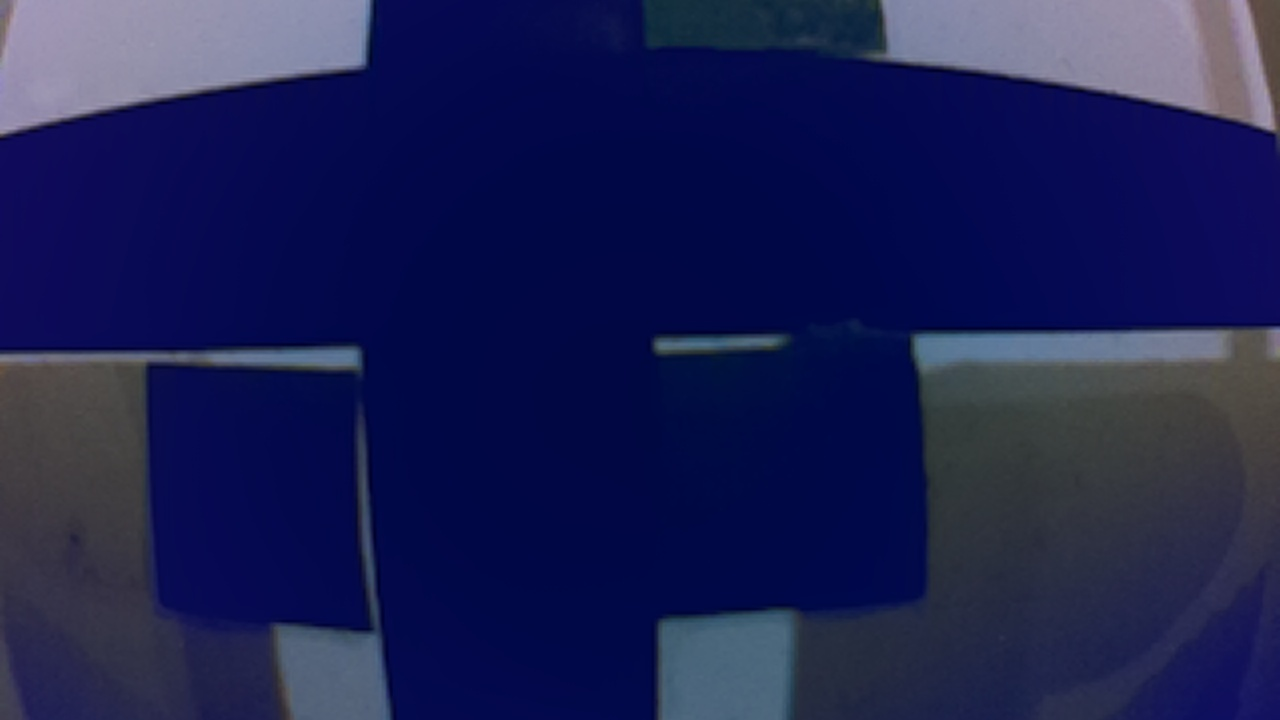
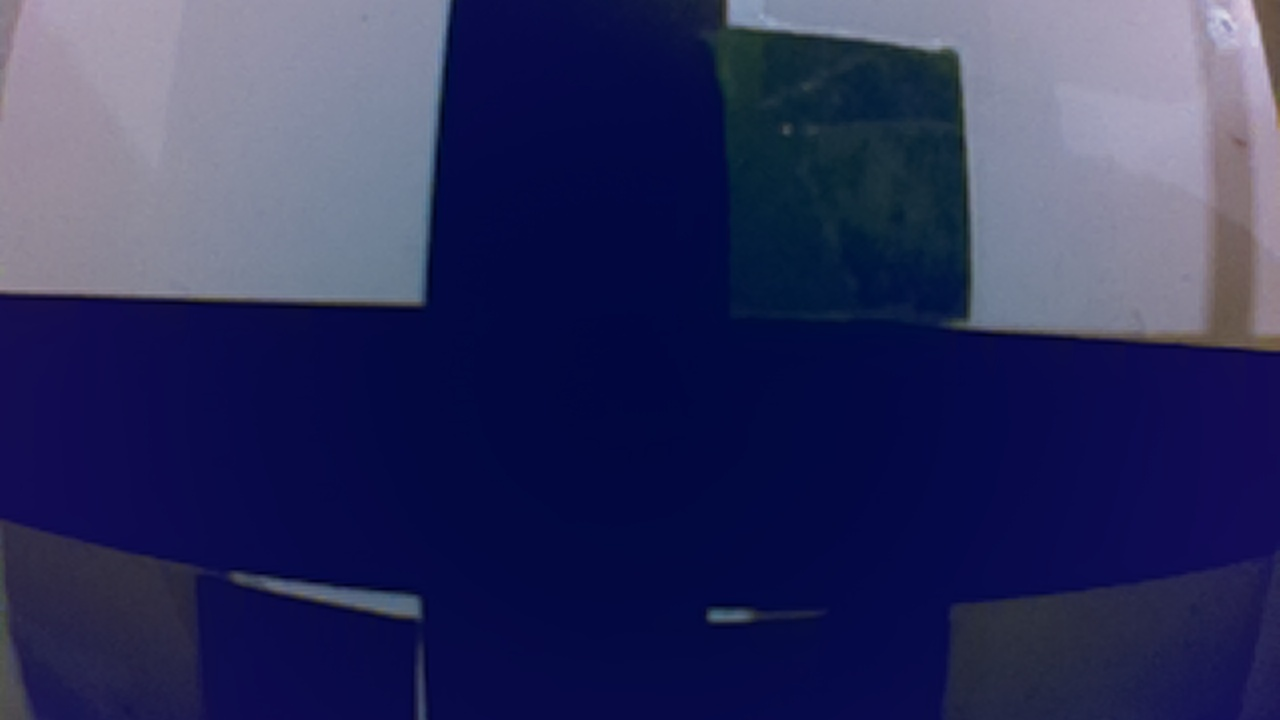
Francisco: Added line color processing/calculation

diff --git a/In Progress/Line_Cam.py b/In Progress/Line_Cam.py
@@ -14,12 +14,38 @@ print("Line Camera: \t \t OK")
 
 
 # Color Configs
+black_min = np.array(config.black_min)
+black_max = np.array(config.black_max)
 green_min = np.array(config.green_min)
 green_max = np.array(config.green_max)
 red_min_1 = np.array(config.red_min_1)
 red_max_1 = np.array(config.red_max_1)
 red_min_2 = np.array(config.red_min_2)
 red_max_2 = np.array(config.red_max_2)
+
+
+def get_line_center(binary_image):
+    height, width = binary_image.shape
+    roi = binary_image[int(height * 0.7):, :]  # Focus on the lower part of the image
+    contours, _ = cv2.findContours(roi, cv2.RETR_EXTERNAL, cv2.CHAIN_APPROX_SIMPLE)
+
+    if contours:
+        largest_contour = max(contours, key=cv2.contourArea)
+        M = cv2.moments(largest_contour)
+        if M["m00"] != 0:
+            cx = int(M["m10"] / M["m00"])
+            return cx, height - 1  # Return x position of the detected line
+    return None  # No line detected
+
+
+def follow_line(cx, frame_width):
+    center_x = frame_width // 2
+    if cx < center_x - 20:
+        print("Turn Left")
+    elif cx > center_x + 20:
+        print("Turn Right")
+    else:
+        print("Move Forward")
 
 
 def LoPController():
@@ -78,10 +104,19 @@ def lineCamLoop():
             hsv_image = cv2.cvtColor(cv2_img, cv2.COLOR_BGR2HSV)
             green_image = cv2.inRange(hsv_image, green_min, green_max)
             red_image = cv2.inRange(hsv_image, red_min_1, red_max_1) + cv2.inRange(hsv_image, red_min_2, red_max_2)
+            black_image = cv2.inRange(hsv_image, black_min, black_max)
 
             # Show Images
             cv2.imwrite("/home/raspberrypi/Airborne_Rescue_Line_2025/In Progress/latest_frame_cv2.jpg", cv2_img)
             cv2.imwrite("/home/raspberrypi/Airborne_Rescue_Line_2025/In Progress/latest_frame_hsv.jpg", hsv_image)
+            cv2.imwrite("/home/raspberrypi/Airborne_Rescue_Line_2025/In Progress/latest_frame_green.jpg", green_image)
+            cv2.imwrite("/home/raspberrypi/Airborne_Rescue_Line_2025/In Progress/latest_frame_black.jpg", black_image)
+
+            # Find the line center and determine movement
+            line_position = get_line_center(black_image)
+            if line_position:
+                cx, _ = line_position
+                follow_line(cx, cv2_img.shape[1])
 
             gapController()
             intersectionController()

diff --git a/SwTest/Color_Picker_Test.py b/SwTest/Color_Picker_Test.py
@@ -10,8 +10,8 @@ def pick_color(event,x,y,flags,param):
         pixel = image_hsv[y,x]
 
         #you might want to adjust the ranges(+-10, etc):
-        upper =  np.array([pixel[0] + 10, pixel[1] + 10, pixel[2] + 40])
-        lower =  np.array([pixel[0] - 10, pixel[1] - 10, pixel[2] - 40])
+        upper =  np.array([pixel[0] + 15, pixel[1] + 15, pixel[2] + 40])
+        lower =  np.array([pixel[0] - 40, pixel[1] - 40, pixel[2] - 40])
         print(pixel, lower, upper)
 
         image_mask = cv2.inRange(image_hsv,lower,upper)
@@ -21,7 +21,7 @@ def main():
     import sys
     global image_hsv, pixel # so we can use it in mouse callback
 
-    image_src = cv2.imread(sys.argv[1])  # pick.py my.png
+    image_src = cv2.imread("/home/raspberrypi/Airborne_Rescue_Line_2025/In Progress/latest_frame_cv2.jpg")  # pick.py my.png
     if image_src is None:
         print ("the image read is None............")
         return

diff --git a/In Progress/config.py b/In Progress/config.py
@@ -14,6 +14,8 @@ BAUD_RATE = 115200
 lineDelayMS = 50 # Frame Rate = 20
 
 # Color Configs
+black_min = [0, 0, 0] # 82 83 84
+black_max = [133, 243, 105] # 133 133 135
 green_min = [58, 95, 39]
 green_max = [98, 255, 255]
 red_min_1 = [0, 100, 90]
